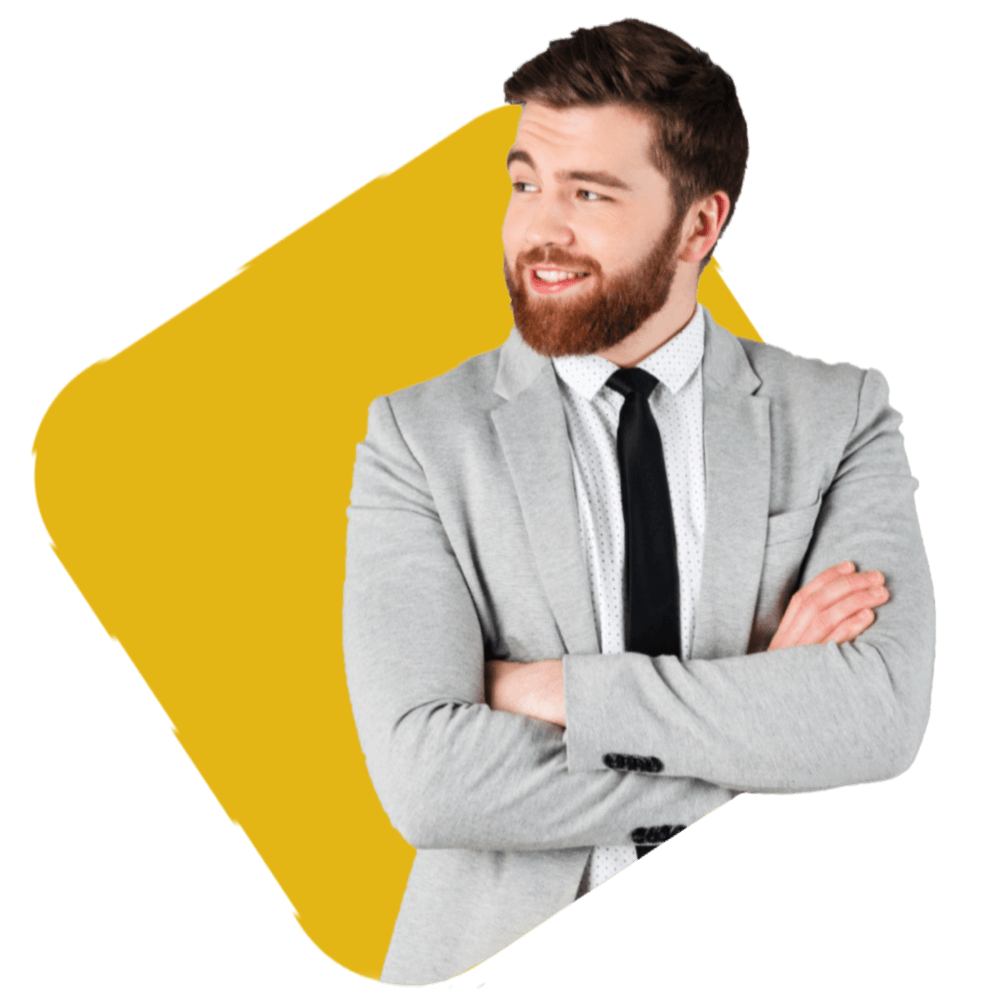
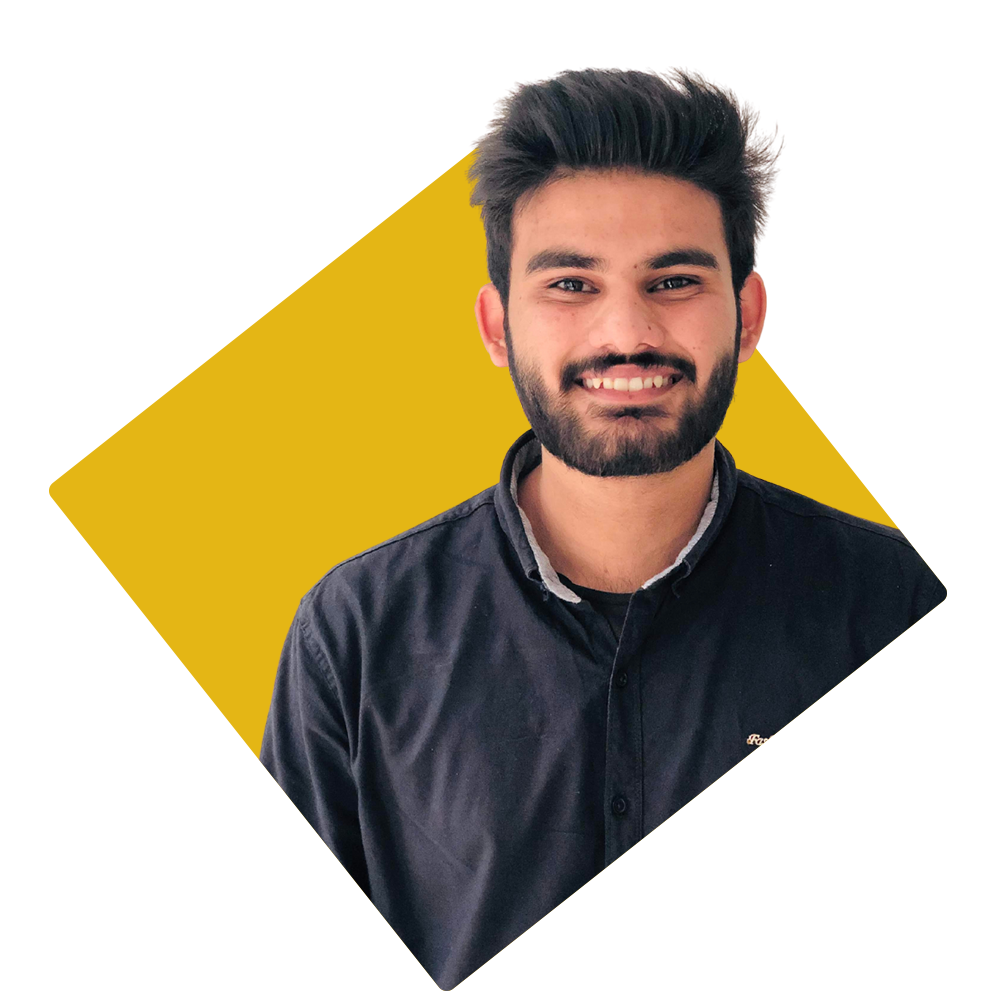
hero section

diff --git a/index.html b/index.html
@@ -59,7 +59,7 @@
                         <a href="#home" class="nav-link active">Home</a>
                     </li>
                     <li class="nav-item dropdown dropdown-hover">
-                        <a href="#aboutme" class="nav-link ">About Us</a>
+                        <a href="#aboutme" class="nav-link ">About Me</a>
                     </li>
                     <li class="nav-item dropdown dropdown-hover">
                         <a href="#service" class="nav-link ">Service</a>
@@ -168,13 +168,11 @@
                                         <p class="text-warning fw-semibold mb-0">Hello! I AM</p>
                                         <div class="home-title mb-0 fw-bold h1">
                                             <span class="typewrite " data-period="2000"
-                                                data-type='[ "Harold Anderson.","Freelance Designer.","Graduate based in NYC." ]'>
+                                                data-type='[ "Sudais Ahmad.","Frontend Developer.","UI Developer","Your Next." ]'>
                                                 <span class="wrap text-dark"></span>
                                             </span>
                                         </div>
-                                        <p class="mt-3 text-muted">Building simple and beautiful things for complex
-                                            interfaces is what I enjoy most about my work. I am also interested in
-                                            crafting beautiful minimal products and exploring new worlds.</p>
+                                        <p class="mt-3 text-muted">As a web developer I am highly skilled in creating effective and attractive websites or web applications that are easy to use and integrate with your other services. Either it's a small personal site, social media or software applications. I am here to Help ;)</p>
 
                                         <div class="icon-item mt-4">
                                             <div class="d-flex">
@@ -227,211 +225,6 @@
                                 <div class="col-lg-6">
                                     <div class="my-image">
                                         <img src="images/home/home.png" alt="" class="img-fluid">
-                                    </div>
-                                </div>
-                            </div>
-                        </div>
-                        <!-- slider item -->
-
-                        <div class="item">
-                            <div class="row align-items-center">
-                                <div class="col-lg-6">
-                                    <div class="content-item">
-                                        <p class="text-primary fw-semibold mb-0">Hello! I AM</p>
-                                        <div class="home-title mb-0 text-dark fw-bold h1">
-                                            <span class="typewrite " data-period="2000"
-                                                data-type='[ "Marie Jons.","Devloper.","Graduate based in NYC." ]'>
-                                                <span class="wrap text-dark"></span>
-                                            </span>
-                                        </div>
-                                        <p class="mt-3 text-muted">Building simple and beautiful things for complex
-                                            interfaces is what I enjoy most about my work. I am also interested in
-                                            crafting beautiful minimal products and exploring new worlds.</p>
-
-                                        <div class="icon-item mt-4">
-                                            <div class="d-flex">
-                                                <a href="#">
-                                                    <div class="social-icon facebook avatar-sm">
-                                                        <i class="mdi mdi-facebook"></i>
-                                                    </div>
-                                                </a>
-                                                <a href="#">
-                                                    <div class="social-icon instagram avatar-sm">
-                                                        <i class="mdi mdi-instagram"></i>
-                                                    </div>
-                                                </a>
-                                                <a href="#">
-                                                    <div class="social-icon twitter avatar-sm">
-                                                        <i class="mdi mdi-twitter"></i>
-                                                    </div>
-                                                </a>
-                                                <a href="#">
-                                                    <div class="social-icon linkedin avatar-sm">
-                                                        <i class="mdi mdi-linkedin"></i>
-                                                    </div>
-                                                </a>
-                                                <a href="#">
-                                                    <div class="social-icon pinterest avatar-sm">
-                                                        <i class="mdi mdi-pinterest"></i>
-                                                    </div>
-                                                </a>
-                                            </div>
-
-                                        </div>
-
-                                        <div class="home-link d-flex align-items-center mt-5">
-                                            <div class="btn-link">
-                                                <a href="" class="text-dark h6">
-                                                    <div class="read-link"><span>See my work </span></div>
-                                                </a>
-                                            </div>
-                                            <div class="btn-link-icon">
-                                                <img src="images/home/right-arrow.png" alt="" class="img-fluid ms-3">
-                                            </div>
-                                        </div>
-                                    </div>
-                                </div>
-
-                                <div class="col-lg-6">
-                                    <div class="my-image">
-                                        <img src="images/home/home-2.png" alt="" class="img-fluid">
-                                    </div>
-                                </div>
-                            </div>
-                        </div>
-
-                        <!-- slider item -->
-                        <div class="item">
-                            <div class="row align-items-center">
-                                <div class="col-lg-6">
-                                    <div class="content-item">
-                                        <p class="text-danger fw-semibold mb-0">Hello! I AM</p>
-                                        <div class="home-title mb-0 text-dark fw-bold h1">
-                                            <span class="typewrite " data-period="2000"
-                                                data-type='[ "Ray Glam.","Web Enthusiast.","Graduate based in NYC." ]'>
-                                                <span class="wrap text-dark"></span>
-                                            </span>
-                                        </div>
-                                        <p class="mt-3 text-muted">Building simple and beautiful things for complex
-                                            interfaces is what I enjoy most about my work. I am also interested in
-                                            crafting beautiful minimal products and exploring new worlds.</p>
-
-                                        <div class="icon-item mt-4">
-                                            <div class="d-flex">
-                                                <a href="#">
-                                                    <div class="social-icon facebook avatar-sm">
-                                                        <i class="mdi mdi-facebook"></i>
-                                                    </div>
-                                                </a>
-                                                <a href="#">
-                                                    <div class="social-icon instagram avatar-sm">
-                                                        <i class="mdi mdi-instagram"></i>
-                                                    </div>
-                                                </a>
-                                                <a href="#">
-                                                    <div class="social-icon twitter avatar-sm">
-                                                        <i class="mdi mdi-twitter"></i>
-                                                    </div>
-                                                </a>
-                                                <a href="#">
-                                                    <div class="social-icon linkedin avatar-sm">
-                                                        <i class="mdi mdi-linkedin"></i>
-                                                    </div>
-                                                </a>
-                                                <a href="#">
-                                                    <div class="social-icon pinterest avatar-sm">
-                                                        <i class="mdi mdi-pinterest"></i>
-                                                    </div>
-                                                </a>
-                                            </div>
-
-                                        </div>
-
-                                        <div class="home-link d-flex align-items-center mt-5">
-                                            <div class="btn-link">
-                                                <a href="" class="text-dark h6">
-                                                    <div class="read-link btn-link-denger"><span>See my work </span>
-                                                    </div>
-                                                </a>
-                                            </div>
-                                            <div class="btn-link-icon">
-                                                <img src="images/home/right-arrow.png" alt="" class="img-fluid ms-3">
-                                            </div>
-                                        </div>
-                                    </div>
-                                </div>
-
-                                <div class="col-lg-6">
-                                    <div class="my-image">
-                                        <img src="images/home/home-3.png" alt="" class="img-fluid">
-                                    </div>
-                                </div>
-                            </div>
-                        </div>
-
-                        <!-- slider item -->
-                        <div class="item">
-                            <div class="row align-items-center">
-                                <div class="col-lg-6">
-                                    <div class="content-item">
-                                        <p class="text-blue fw-semibold mb-0">Hello! I AM</p>
-                                        <h1 class="home-title mb-0 text-dark fw-bold">
-                                            <span class="typewrite " data-period="2000"
-                                                data-type='[ "Ray Glam.","Web Enthusiast.","Graduate based in NYC." ]'>
-                                                <span class="wrap text-dark"></span>
-                                            </span>
-                                        </h1>
-                                        <p class="mt-3 text-muted">Building simple and beautiful things for complex
-                                            interfaces is what I enjoy most about my work. I am also interested in
-                                            crafting beautiful minimal products and exploring new worlds.</p>
-
-                                        <div class="icon-item mt-4">
-                                            <div class="d-flex">
-                                                <a href="#">
-                                                    <div class="social-icon facebook avatar-sm">
-                                                        <i class="mdi mdi-facebook"></i>
-                                                    </div>
-                                                </a>
-                                                <a href="#">
-                                                    <div class="social-icon instagram avatar-sm">
-                                                        <i class="mdi mdi-instagram"></i>
-                                                    </div>
-                                                </a>
-                                                <a href="#">
-                                                    <div class="social-icon twitter avatar-sm">
-                                                        <i class="mdi mdi-twitter"></i>
-                                                    </div>
-                                                </a>
-                                                <a href="#">
-                                                    <div class="social-icon linkedin avatar-sm">
-                                                        <i class="mdi mdi-linkedin"></i>
-                                                    </div>
-                                                </a>
-                                                <a href="#">
-                                                    <div class="social-icon pinterest avatar-sm">
-                                                        <i class="mdi mdi-pinterest"></i>
-                                                    </div>
-                                                </a>
-                                            </div>
-
-                                        </div>
-
-                                        <div class="home-link d-flex align-items-center mt-5">
-                                            <div class="btn-link">
-                                                <a href="" class="text-dark h6">
-                                                    <div class="read-link btn-link-blue"><span>See my work </span></div>
-                                                </a>
-                                            </div>
-                                            <div class="btn-link-icon">
-                                                <img src="images/home/right-arrow.png" alt="" class="img-fluid ms-3">
-                                            </div>
-                                        </div>
-                                    </div>
-                                </div>
-
-                                <div class="col-lg-6">
-                                    <div class="my-image">
-                                        <img src="images/home/home-4.png" alt="" class="img-fluid">
                                     </div>
                                 </div>
                             </div>
@@ -1281,7 +1074,7 @@
                 <div class="col-lg-6">
                     <div class="text-center mb-5">
                         <h6 class="mb-0 text-muted fs-15 text-uppercase">Testimonial</h6>
-                        <h2>People talk about us</h2>
+                        <h2>What do they say about me</h2>
                         <p class="para-width text-muted mb-0 fs-15">A Private Limited is the most popular type of
                             partnership Malta. The limited liability is, in fact, the only type of company allowed by
                             Companies.</p>
@@ -1611,14 +1404,6 @@
                         </div>
                     </div>
                 </div>
-            </div>
-
-            <div class="shape-2">
-                <img src="images/testi/shape-2.png" alt="" class="img-fluid">
-            </div>
-
-            <div class="shape-3 ">
-                <img src="images/testi/shape-3.png" alt="" class="img-fluid">
             </div>
         </div>
         <!-- end container -->
